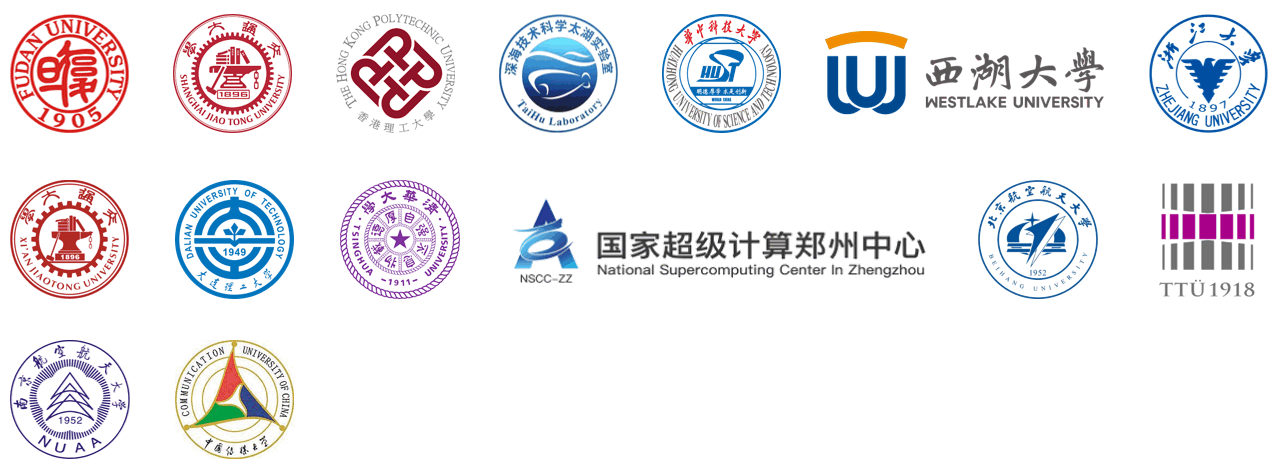
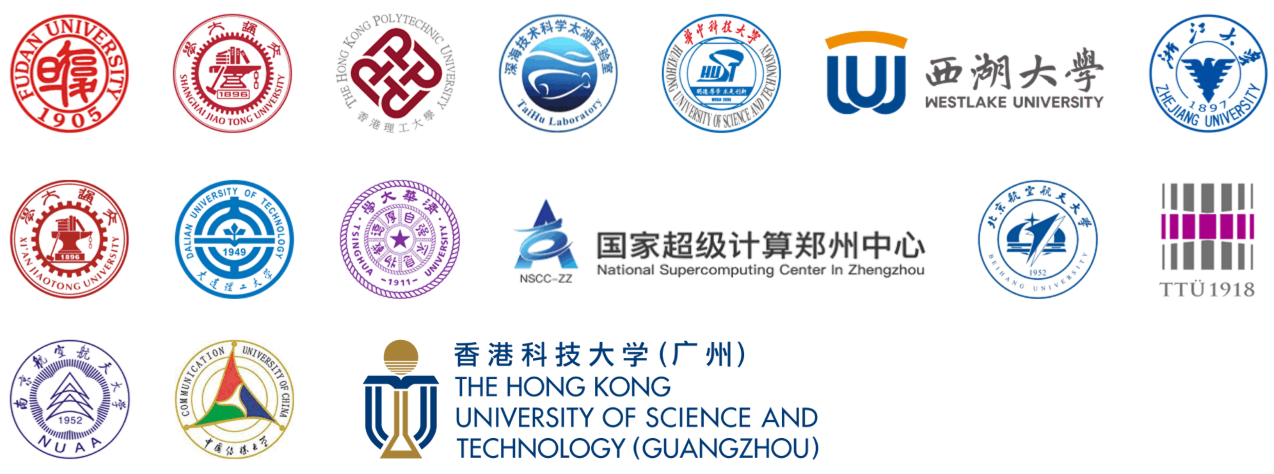
[Doc] Add HKUST badge and remove some codes (#950)
* add HKUST icon in cooperation institution

* remove unnecessary loss_aggregator in load_pretrain function

* resize image

* add requests into requirements

diff --git a/ppsci/utils/save_load.py b/ppsci/utils/save_load.py
@@ -46,7 +46,6 @@ def _load_pretrain_from_path(
     path: str,
     model: nn.Layer,
     equation: Optional[Dict[str, equation.PDE]] = None,
-    loss_aggregator: Optional[mtl.LossAggregator] = None,
 ):
     """Load pretrained model from given path.
 
@@ -81,26 +80,11 @@ def _load_pretrain_from_path(
                 f"Finish loading pretrained equation parameters from: {path}.pdeqn"
             )
 
-    if loss_aggregator is not None:
-        if not os.path.exists(f"{path}.pdagg"):
-            if loss_aggregator.should_persist:
-                logger.warning(
-                    f"Given loss_aggregator({type(loss_aggregator)}) has persistable"
-                    f"parameters or buffers, but {path}.pdagg not found."
-                )
-        else:
-            aggregator_dict = paddle.load(f"{path}.pdagg")
-            loss_aggregator.set_state_dict(aggregator_dict)
-            logger.message(
-                f"Finish loading pretrained equation parameters from: {path}.pdagg"
-            )
-
 
 def load_pretrain(
     model: nn.Layer,
     path: str,
     equation: Optional[Dict[str, equation.PDE]] = None,
-    loss_aggregator: Optional[mtl.LossAggregator] = None,
 ):
     """
     Load pretrained model from given path or url.
@@ -142,7 +126,7 @@ def load_pretrain(
     # remove ".pdparams" in suffix of path for convenient
     if path.endswith(".pdparams"):
         path = path[:-9]
-    _load_pretrain_from_path(path, model, equation, loss_aggregator)
+    _load_pretrain_from_path(path, model, equation)
 
 
 def load_checkpoint(
